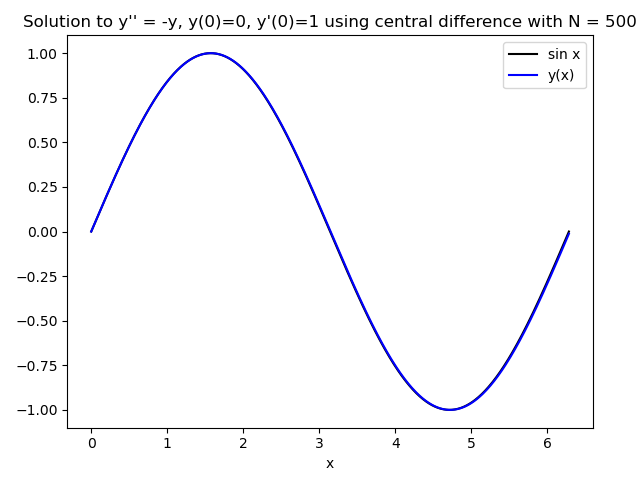
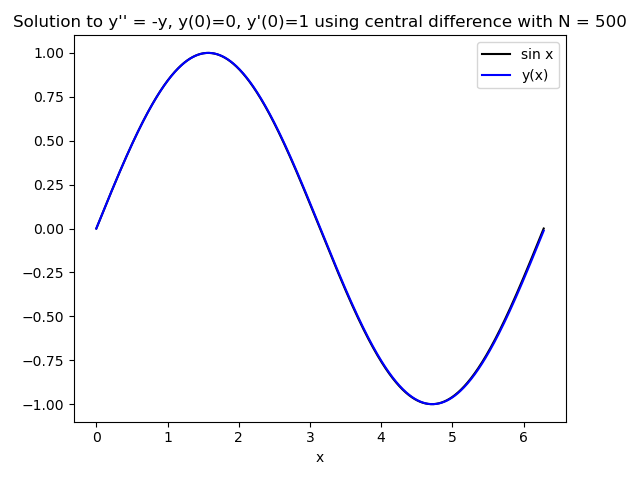
completed problem 1

diff --git a/1/problem1.py b/1/problem1.py
@@ -64,8 +64,8 @@ def dscrt(xi, xf, yi, dyi, steps) :
 #     x, y = dscrt(a, b, y0, dy0, N)
 #     plt.scatter(x, y, s=2)
 
-# x, y = dscrt(a, b, y0, dy0, 500)
-x, y = frwrd(a, b, y0, dy0, 10000)
+x, y = dscrt(a, b, y0, dy0, 1000)
+# x, y = frwrd(a, b, y0, dy0, 10000)
 
 # actual solution
 u = np.linspace(a, b, 1000)
